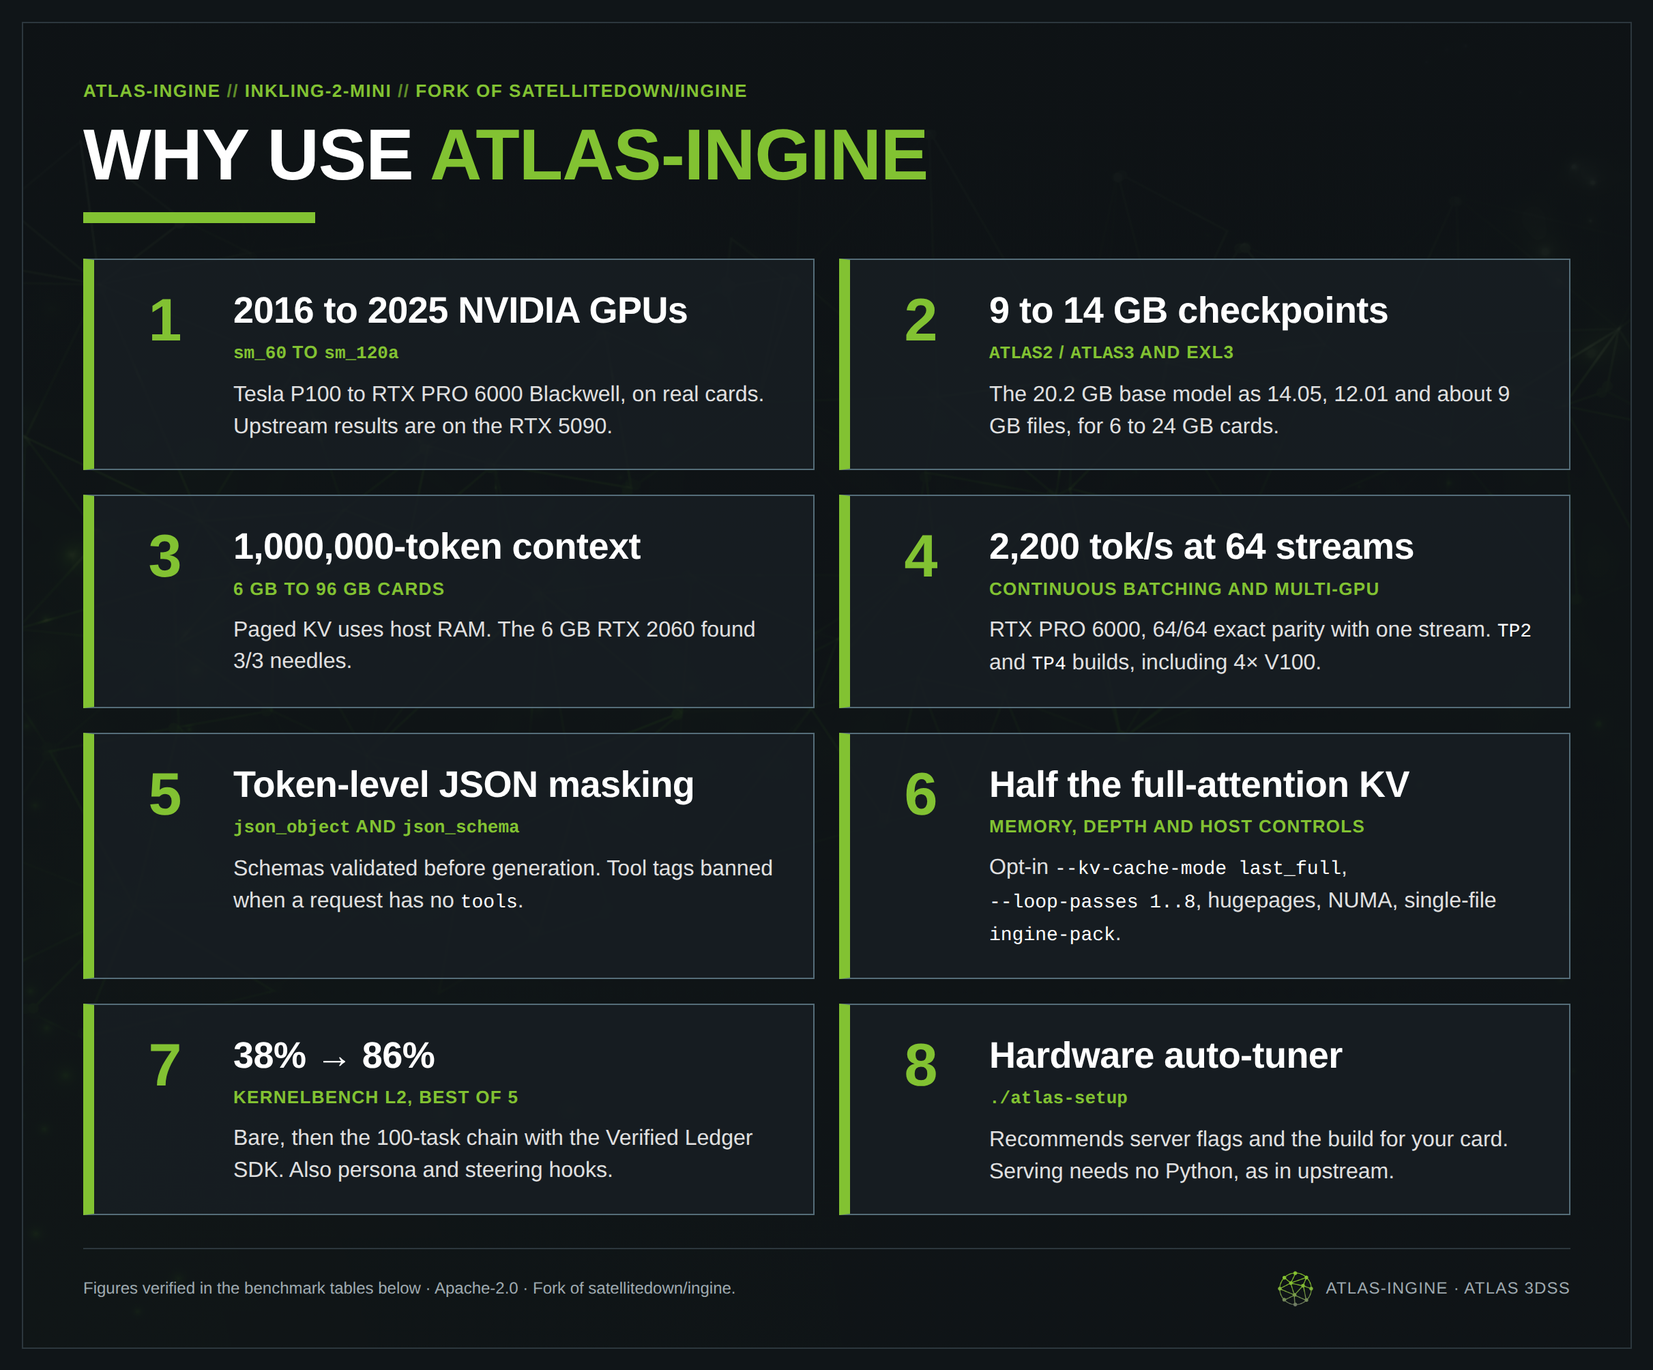
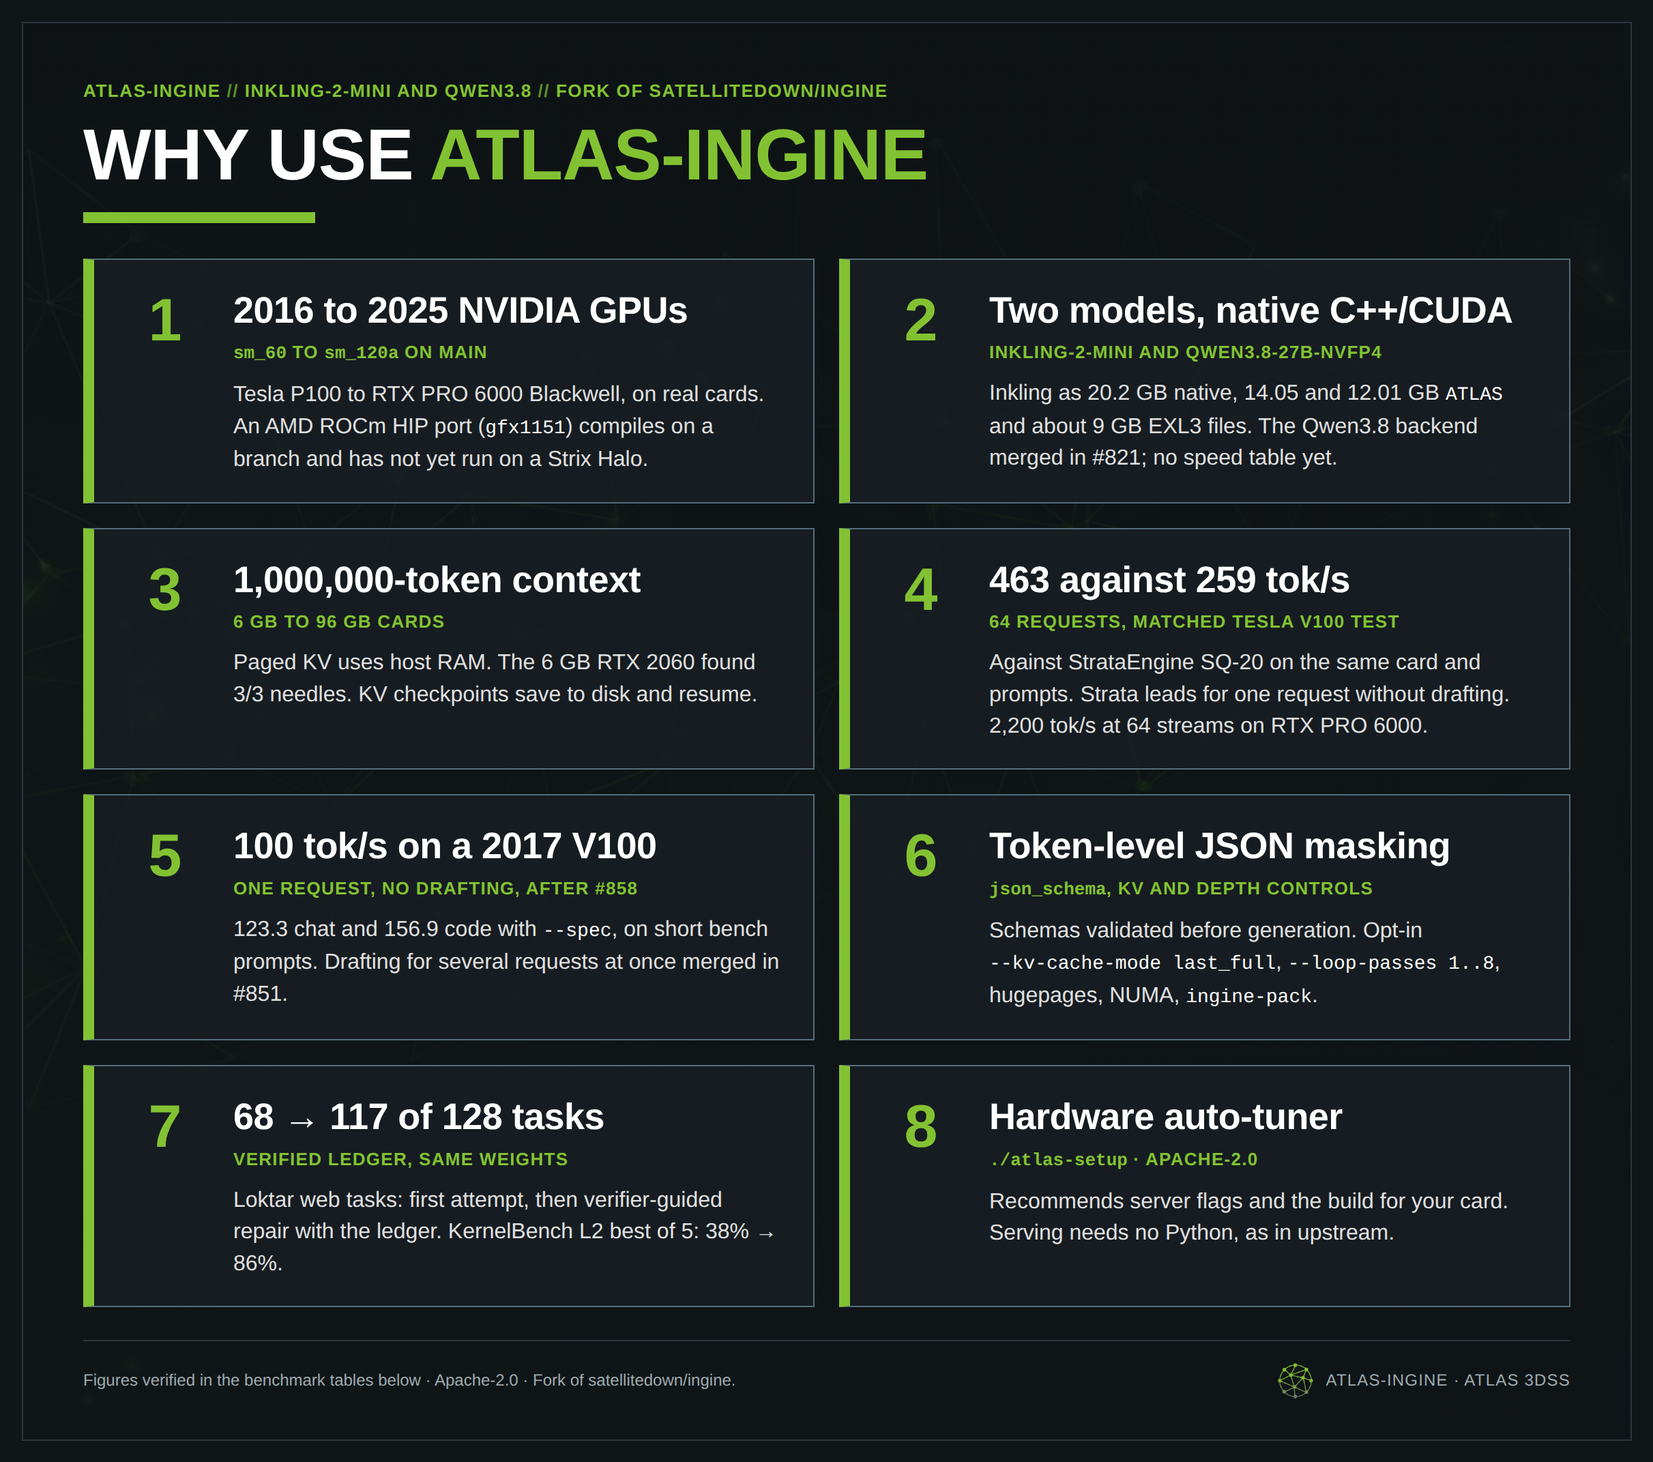
docs(readme): add matched V100 StrataEngine test, post-#858 V100 rows, and refreshed summary graphics

diff --git a/README.md b/README.md
@@ -1,19 +1,19 @@
 # atlas-ingine
 
 Multi-architecture Apache-2.0 CUDA inference engine for
-[thinkingmachines/Inkling-2-Mini](https://huggingface.co/thinkingmachines/Inkling-2-Mini), forked from
+[thinkingmachines/Inkling-2-Mini](https://huggingface.co/thinkingmachines/Inkling-2-Mini), with a Qwen3.8-27B-NVFP4 backend, forked from
 [satellitedown/ingine](https://github.com/satellitedown/inkling-2-mini-abliterated-ingine).
 
 ![Why use atlas-ingine: eight numbered points](docs/media/why_atlas_ingine.png)
 
-1. **Tesla P100 (2016) to RTX PRO 6000 (2025)**, `sm_60` to `sm_120a`: [measured performance](#measured-performance-16k-64k--262k-context-across-6-nvidia-generations)
-2. **9 to 14 GB checkpoints** (`ATLAS2`/`ATLAS3`, EXL3) for 6 to 24 GB cards: [checkpoints](#checkpoints-direct-hugging-face-links)
-3. **1,000,000-token context** on 6 GB to 96 GB cards: [1M table](#1000000-token-context-6-gb-to-96-gb-silicon)
-4. **Continuous batching and multi-GPU** (`TP2`/`TP4`): [fork additions](#what-this-fork-adds-over-upstream-satellitedowningine), [4× V100](#tesla-v100-sm_70-load-multi-gpu-and-other-engines-published-figures)
-5. **Token-level JSON and JSON Schema masking**, automatic tool-ban: [API](#openai-compatible-api)
-6. **KV, loop-depth, and host memory controls**, single-file weight packs: [fork additions](#what-this-fork-adds-over-upstream-satellitedowningine)
-7. **Verified Ledger SDK** and mech-interp hooks: [KernelBench](#kernelbench-level-2-benchmarks-100-tasks-continual-learning--verified-ledger), [ledger](#building-your-own-verified-ledger)
-8. **Hardware auto-tuner (`./atlas-setup`)** for upstream's standalone C++/CUDA server: [setup](#option-b-hardware-aware-auto-tuner--interactive-installer), [requirements](#requirements)
+1. **Tesla P100 (2016) to RTX PRO 6000 (2025)**, `sm_60` to `sm_120a`, on `main`: [measured performance](#measured-performance-16k-64k--262k-context-across-6-nvidia-generations). An AMD ROCm 7.2.4 HIP port for `gfx1151` is on branch [`feat/hip-full-port`](https://github.com/Atlas3DSS/atlas-ingine/tree/feat/hip-full-port) (`2a1fa4f`, 297 of 297 targets compile; not yet run on a Strix Halo).
+2. **Two models in native C++/CUDA**: Inkling-2-Mini as 9 to 20 GB files (`NVFP4+MXFP8`, `ATLAS2`/`ATLAS3`, EXL3) for 6 to 96 GB cards, and a Qwen3.8-27B-NVFP4 backend (`75577dd`; no speed table yet): [checkpoints](#checkpoints-direct-hugging-face-links), [Qwen3.8 plan](docs/QWEN38_BACKEND_PLAN.md)
+3. **1,000,000-token context** on 6 GB to 96 GB cards, with KV checkpoints that save to disk and resume: [1M table](#1000000-token-context-6-gb-to-96-gb-silicon)
+4. **Continuous batching and multi-GPU** (`TP2`/`TP4`): `463` against `259 tok/s` at 64 requests in a matched Tesla V100 test with StrataEngine SQ-20, which leads for one request without drafting: [matched test](#tesla-v100-sm_70-matched-test-load-multi-gpu-and-other-engines-published-figures), [fork additions](#what-this-fork-adds-over-upstream-satellitedowningine)
+5. **Tesla V100 single-request decode** of `100.4 tok/s` without drafting, `123.3` chat and `156.9` code with `--spec` (`56493c3`, short bench prompts), and drafting for several requests at once (`5f01889`): [measured performance](#measured-performance-16k-64k--262k-context-across-6-nvidia-generations)
+6. **Token-level JSON and JSON Schema masking**, automatic tool-ban, and KV, loop-depth, and host memory controls: [API](#openai-compatible-api), [fork additions](#what-this-fork-adds-over-upstream-satellitedowningine)
+7. **Verified Ledger SDK** and mech-interp hooks; with the same weights, 68 of 128 Loktar web tasks passed on the first attempt and 117 after verifier-guided repair with the ledger: [KernelBench and other evaluations](#kernelbench-level-2-benchmarks-100-tasks-continual-learning--verified-ledger), [ledger](#building-your-own-verified-ledger)
+8. **Hardware auto-tuner (`./atlas-setup`)** for upstream's standalone C++/CUDA server, Apache-2.0: [setup](#option-b-hardware-aware-auto-tuner--interactive-installer), [requirements](#requirements)
 
 ## Checkpoints (Direct Hugging Face Links)
 
@@ -34,7 +34,7 @@ Inkling-2-Mini has been benchmarked on real cards across **six NVIDIA GPU genera
 
 On the RTX 3090, all 24 BF16 dense output hashes matched between the pre-port build and the FP16 port. Blackwell and V100 runs passed `kernels_bitlock` (`48/48` on Blackwell) and full-model parity; P100 (`sm_60`) and Turing (`sm_75`) passed kernel tests and real-card speed benchmarks (full-model parity ctest was not run on the cloud P100/T4/RTX 6000/A100/H100 instances).
 
-Unless noted, 64K rows use `ingine-bench --max-ctx 65536 --dense-fp8 --kv-fp8 --spec --spec-threshold 0.8 --effort medium --tokens 512 --runs 2 --long-prompt 64000` on commit `901d86e` (runtime opt-in SMEM dispatch for `<=64 KiB` Turing and `<=48 KiB` Pascal). 16K rows use `--max-ctx 16384 --long-prompt 16000`. The V100 262K row uses `--effort low --tokens 64 --runs 1` with no long prompt; A100 and H100 262K rows use `--max-ctx 262144 --tokens 512 --runs 2`.
+Unless noted, 64K rows use `ingine-bench --max-ctx 65536 --dense-fp8 --kv-fp8 --spec --spec-threshold 0.8 --effort medium --tokens 512 --runs 2 --long-prompt 64000` on commit `901d86e` (runtime opt-in SMEM dispatch for `<=64 KiB` Turing and `<=48 KiB` Pascal). 16K rows use `--max-ctx 16384 --long-prompt 16000`. The V100 262K row uses `--effort low --tokens 64 --runs 1` with no long prompt; A100 and H100 262K rows use `--max-ctx 262144 --tokens 512 --runs 2`. The two V100 `main` rows after the Volta decode change (`66ef369` / `56493c3`) are `ingine-bench` on its short built-in prompts with one slot and three runs, not the 64K-prompt setting, so they are not comparable with the other rows.
 
 | GPU | Arch | Year | Checkpoint / Mode | VRAM | Chat decode | Code decode | Prefill |
 |---|---|---:|---|---:|---:|---:|---:|
@@ -43,6 +43,8 @@ Unless noted, 64K rows use `ingine-bench --max-ctx 65536 --dense-fp8 --kv-fp8 --
 | Tesla P100-PCIE 16 GB | `sm_60` (FP16) | 2016 | [Elastic `atlas-10g`](https://huggingface.co/Atlas3D/Inkling-2-Mini-atlas-10g-ingine) (64K, no-spec) | `13.17 GB` | `7.9 tok/s` | `7.5 tok/s` | `70.1 tok/s` (64K) |
 | Tesla V100-PCIE 32 GB | `sm_70` (FP16) | 2017 | [Native `NVFP4+MXFP8`](https://huggingface.co/thinkingmachines/Inkling-2-Mini) (64K, `901d86e`) | `21.82 GB` | `59.8 tok/s` | `72.2 tok/s` | `717.7 tok/s` (64K) |
 | Tesla V100-PCIE 32 GB | `sm_70` (FP16) | 2017 | [Native `NVFP4+MXFP8`](https://huggingface.co/thinkingmachines/Inkling-2-Mini) (64K, `feat/sm60-sm70-victory @ 2545a22`) | `21.82 GB` | **`81.0 tok/s`** | **`100.7 tok/s`** | **`2,052 tok/s`** (64K) |
+| Tesla V100-PCIE 32 GB | `sm_70` (FP16) | 2017 | [Native `NVFP4+MXFP8`](https://huggingface.co/thinkingmachines/Inkling-2-Mini) (short prompts, `--spec`, `main @ 56493c3`) | `21.57 GB` | `123.3 tok/s` | `156.9 tok/s` | — |
+| Tesla V100-PCIE 32 GB | `sm_70` (FP16) | 2017 | [Native `NVFP4+MXFP8`](https://huggingface.co/thinkingmachines/Inkling-2-Mini) (short prompts, no-spec, `66ef369`) | `20.41 GB` | `100.4 tok/s` | `100.4 tok/s` | — |
 | Tesla V100-PCIE 32 GB | `sm_70` (FP16) | 2017 | [Native `NVFP4+MXFP8`](https://huggingface.co/thinkingmachines/Inkling-2-Mini) (262K) | `25.04 GB` | `46.0 tok/s` | `54.9 tok/s` | — |
 | Tesla T4 16 GB | `sm_75` (FP16) | 2018 | [Elastic `atlas-10g`](https://huggingface.co/Atlas3D/Inkling-2-Mini-atlas-10g-ingine) (16K, `--spec`) | `13.33 GB` | `23.5 tok/s` | `25.2 tok/s` | `303 tok/s` (16K) |
 | Tesla T4 16 GB | `sm_75` (FP16) | 2018 | [Elastic `atlas-10g`](https://huggingface.co/Atlas3D/Inkling-2-Mini-atlas-10g-ingine) (64K, `--spec`) | `14.34 GB` | `22.1 tok/s` | `23.9 tok/s` | `237 tok/s` (64K) |
@@ -70,11 +72,22 @@ External baseline reference points (different hardware, quants, or settings — 
 - **Project Maya** (AMD ROCm/HIP & multi-GPU Inkling-2-Mini serving) and **`llama.cpp` / `Atlas3DSS/atlas-engine`** (GGUF serving; see [Atlas3DSS/atlas-engine](https://github.com/Atlas3DSS/atlas-engine)).
 - **Like-for-like 6-engine RTX 3090 24 GB bare multi-turn Blender authoring showdown** (identical prompts, 6 sequences / 24 shots, no Verified Ledger, Blender 4.5.14 LTS verifier): `atlas-ingine` Native **`220.15 tok/s`** (`21.23 GiB`, `25.0%` bare pass / `43.93%` compliance — **`1.86×`** Project Maya `118.26 tok/s`, **`2.11×`** `llama.cpp v7+DSpark` `104.16 tok/s`, **`3.48×`** `Kintsugi-12G` `63.22 tok/s`), while `atlas-12g` ran **`163.73 tok/s`** (**`2.59×`** `Kintsugi-12G` with vision included; upstream `satellitedown/ingine` fails startup on `sm_86`). Adding Verified Ledger lifts `atlas-ingine` Native from `25%` bare to `100%` (`28/28` shots).
 
-### Tesla V100 (`sm_70`): load, multi-GPU, and other engines' published figures
+### Tesla V100 (`sm_70`): matched test, load, multi-GPU, and other engines' published figures
 
-![Inkling-2-Mini on the Tesla V100: atlas-ingine beside NInfer, StrataEngine, Lapilli, llama.cpp, DGX Spark and a P100 reference](docs/media/v100_inkling2mini_all_engines.png)
+![Inkling-2-Mini on the Tesla V100: a matched test against StrataEngine, and atlas-ingine beside published figures from NInfer, StrataEngine, Lapilli, llama.cpp, DGX Spark and a P100 reference](docs/media/v100_inkling2mini_all_engines.png)
 
 Measured 2026-11-25 on Tesla V100-PCIE-32GB cards with [knapcio/speedbench](https://github.com/knapcio/speedbench) at `e95a638` (native `NVFP4+MXFP8`, `--dense-fp8 --kv-fp8`, built-in DSpark for single-stream speedbench and cold prefill, no drafting for the concurrent prose runs). These runs used a pre-merge build of the Volta prefill/batch kernels and have not been repeated on current `main`.
+
+**Matched test against StrataEngine** (2026-11-26; the same Tesla V100-PCIE-32GB, speedbench-v1 prose prompts over HTTP, 256 output tokens, thinking off, two rounds, 0 failed requests in every arm). StrataEngine is release `v0.2.22` (engine `0.1.69`) with its SQ-20 pack from the [card at `04996a1e`](https://huggingface.co/strata-engine/Inkling-2-Mini-Strata/blob/04996a1e2c45009b6a04f2af126cb6bdb2ba3587/README.md), `--parallel 64 --kv fp8`. atlas-ingine is the same pre-merge build as above (native `NVFP4+MXFP8`), not `main` after the Volta decode change.
+
+| Arm | `c=1` | `c=8` | `c=16` | `c=64` | First token at `c=64`, median / p95 | Cold 10,131-token prompt |
+|---|---:|---:|---:|---:|---:|---:|
+| atlas-ingine, no drafting, `--max-batch 64` | `44.65` | `142.36` | `204.18` | `463.37` | `6.73 s` / `6.77 s` | — |
+| atlas-ingine, `--spec`, one slot | `59.17` | — | — | — | — | `2,648 tok/s` (`3.83 s`) |
+| StrataEngine SQ-20, `--draft off` | `55.62` | `138.14` | `170.34` | `258.18` | `1.30 s` / `16.85 s` | `1,259 tok/s` (`8.05 s`) |
+| StrataEngine SQ-20, drafting on | `45.09` | `138.93` | `169.34` | `258.59` | `1.16 s` / `16.72 s` | `651 tok/s` (`15.57 s`) |
+
+Throughput is aggregate `tok/s`. atlas-ingine is ahead at 16 and 64 requests (`1.20×` and `1.79×`) and on the cold prompt (`2.1×` with Strata's drafting off); the two are level at 8. StrataEngine is ahead for one request without drafting (`55.62` against `44.65`) and starts most replies sooner at 64 (median first token `1.2–1.3 s` against `6.7 s`), while its slowest requests wait longer (p95 `16.7 s` against `6.8 s`). The cold-prompt figure is one request per arm, timed end to end including 32 output tokens. StrataEngine's SQ-10 pack with drafting failed 3 of 3 starts on this card (`CUDA error 9`), so it has no row.
 
 | Setup | speedbench full, `c=1` (geomean) | Prose, 16 concurrent | Highest load measured (prose, 0 failed) | Cold prefill, 8K |
 |---|---:|---:|---:|---:|
@@ -86,8 +99,8 @@ On one card, 64 concurrent high-effort requests of 4,096 tokens exceeded the KV 
 
 Published V100 and P100 figures from other projects, on their hardware, quants, and prompts (not re-measured here):
 
-- **[ashalliants/ninfer-3090](https://github.com/ashalliants/ninfer-3090)** ([`docs/tesla-v100.md` at `8ea67ce`](https://github.com/ashalliants/ninfer-3090/blob/8ea67ce616c481592d3016291043ed5143c9065b/docs/tesla-v100.md); Tesla V100 32 GB at 200 W, byte-exact repack of Unsloth `UD-Q8_K_XL`, INT8 KV): `78.0 tok/s` plain and `94.3 tok/s` with DSpark (12-chat average, 262,144 max context with vision), `198.2 tok/s` aggregate at 8 concurrent (the highest it publishes), prefill `2,727 tok/s` at 8K with `--prefill-chunk 8192` at 131,072 max context (`2,170` at its default chunk). **NInfer is ahead for 1–8 users:** ours are `81.0 tok/s` chat with `--spec`, `44.7 tok/s` plain at `c=1`, and `142.2 tok/s` at `c=8`. atlas-ingine's 8K prefill is `2,900 tok/s` against `2,727`; NInfer publishes no four-card or 1,048,576-token figures.
-- **[StrataEngine Hugging Face card at `04996a1e`](https://huggingface.co/strata-engine/Inkling-2-Mini-Strata/blob/04996a1e2c45009b6a04f2af126cb6bdb2ba3587/README.md)** (Tesla V100 32 GB, its SQ-20 and SQ-10 packs, thinking off, draft decoding on for single requests; prompts, output length, and context not stated): `70.5 tok/s` for one request, `2,287 tok/s` prefill on SQ-20, and **`990.1 tok/s` (SQ-20) and `676.0 tok/s` (SQ-10) across 64 simultaneous requests**. Our `463.4 tok/s` at `c=64` is on a different workload (speedbench prose, native `NVFP4`, no drafting), so the two are not like for like; Strata's published 64-request figure is the higher one.
+- **[ashalliants/ninfer-3090](https://github.com/ashalliants/ninfer-3090)** ([`docs/tesla-v100.md` at `8ea67ce`](https://github.com/ashalliants/ninfer-3090/blob/8ea67ce616c481592d3016291043ed5143c9065b/docs/tesla-v100.md); Tesla V100 32 GB at 200 W, byte-exact repack of Unsloth `UD-Q8_K_XL`, INT8 KV): `78.0 tok/s` plain and `94.3 tok/s` with DSpark (12-chat average, 262,144 max context with vision), `198.2 tok/s` aggregate at 8 concurrent (the highest it publishes), prefill `2,727 tok/s` at 8K with `--prefill-chunk 8192` at 131,072 max context (`2,170` at its default chunk). **NInfer's published figures are higher at 8 users:** ours is `142.2 tok/s` at `c=8` on the pre-merge build. For one request, `main` after the Volta decode change measures `100.4 tok/s` plain and `123.3 tok/s` chat with `--spec` on `ingine-bench`'s short prompts (the earlier build: `81.0` chat at 64K, `44.7` plain over HTTP); prompts and context differ from NInfer's, so this is not a matched result. atlas-ingine's 8K prefill is `2,900 tok/s` against `2,727`; NInfer publishes no four-card or 1,048,576-token figures.
+- **[StrataEngine Hugging Face card at `04996a1e`](https://huggingface.co/strata-engine/Inkling-2-Mini-Strata/blob/04996a1e2c45009b6a04f2af126cb6bdb2ba3587/README.md)** (Tesla V100 32 GB, its SQ-20 and SQ-10 packs, thinking off, draft decoding on for single requests; prompts, output length, and context not stated): `70.5 tok/s` for one request, `2,287 tok/s` prefill on SQ-20, and **`990.1 tok/s` (SQ-20) and `676.0 tok/s` (SQ-10) across 64 simultaneous requests**. Our `463.4 tok/s` at `c=64` is on a different workload (speedbench prose, native `NVFP4`, no drafting). On that workload the same SQ-20 pack measured `258.6 tok/s` at `c=64` in the matched test above; we did not reproduce its published workload.
 - **[Lapilli Inkling port](https://github.com/chris83-dev/lapilli-v100/blob/f9b7dd093a9ff018bc68f177f81a1d27d3ffec91/docs/community/inkling2-mini.md)** (`f9b7dd0`; V100 PCIe 32 GB, official NVFP4 experts, no drafting): `69 tok/s` decode, `850 tok/s` on a short prompt.
 - **[`llama.cpp`, realugbun `inkling2-speed` fork README](https://github.com/realugbun/llama.cpp/blob/2eb2530ec4da/README.md)** (`2eb2530`; V100 32 GB, Unsloth `UD-Q4_K_XL`): `50.7 tok/s` and `1,185 tok/s` (`pp512`) on the fork, `32.0` and `725` on mainline as measured there.
 - **[knapcio DGX Spark recipe](https://github.com/knapcio/Inkling-2-Mini-4x-DGX-Spark-TP4)** (`c0f5f1c`; GB10 `sm_121`, SGLang, DFlash2 draft model, BF16 KV; same speedbench): speedbench full `40.6` (1 Spark, stock), `73.34` (1 Spark, tuned), `152.97` (4 Sparks, tuned); prose at 16 concurrent `186.2` / `288.3` / `572.6 tok/s`. One V100 matches a tuned Spark at `c=1`; four tuned Sparks are ahead of four V100s at equal load.
@@ -130,6 +143,12 @@ All 100 Stanford KernelBench Level-2 tasks (`423217d9`, fixed deterministic perm
 
 - **300-Agent Parallel Swarm over Shared Verified Ledger (`4× RTX 5090`, `feat/continuous-batching @ fa4ecb9`, 3 archetypes × 100 tasks):** Running 300 concurrent agents (`minimal_launch`, `warp_vectorized`, `tile_fusion`) over a single shared SQLite Verified Ledger across 4 batched `ingine-serve` workers (`568` committed turns = `300` R1 + `268` R2 before the 3.5 h cap, `1.39M` completion tokens) solved **`45/100`** (`44%` `fast_1`, `2.24×` eager / `1.66×` compile) in Round 1 alone and **`55/100`** (`54%` `fast_1`, `25%` `fast_2`, `47%` `fast_1_compile`, **`2.36×` eager / `1.65×` compile geomean**, peak `14.28×`, **`0 / 159` precomputation flags**) cumulatively through Round 2 — producing **`159` verified winners**, **`62` verified failure-to-winner repairs** (`34` cross-agent + `28` same-agent), and speeding up `20` Round-1 winners in Round 2.
 - **Exploratory A100 DEV Paired Repair-Transfer (`#805`, NVIDIA A100-SXM4-40GB, `TORCH_CUDA_ARCH_LIST=8.0`, 0 infra errors):** Across 89 disjoint Level-2 targets (`58` Attempt-1 passes, `31` eligible failures forked symmetrically under `grade1` + independent `regrade`), Treatment recovered **`21 / 31`** (`67.74%`, Wilson 95% CI `[50.14%, 81.43%]`) vs Control **`19 / 31`** (`61.29%`, `[43.82%, 76.27%]`), with `4` Treatment-only wins vs `2` Control-only wins (exact two-sided McNemar `p = 0.6875`, exploratory; `14/17` vs `12/17` on retrieval hits; all `14` no-hit pairs produced identical code including `4` empty pairs).
+
+Other Verified Ledger evaluations with unchanged weights:
+
+- **Loktar web tasks** (128 canvas and front-end tasks, deterministic browser verifier; [showcase](https://monkeyalignment.com/inkling/self-repair/#loktar-testing)): `68/128` passed on the first attempt (mean score `56.91`) and `117/128` after verifier-guided repair with the Verified Ledger (mean `84.68`, 370 iterations in total). The first-attempt arm has no retries, so the difference includes the retries as well as the ledger.
+- **BenchFlow Robo Use** (local fleet, in progress; rollup of 2026-11-26 10:46 UTC): over 69 matched task/seed/host pairs, stock passed `32` (`46.4%`) and Verified Ledger `37` (`53.6%`); 11 ledger-only wins, 6 stock-only wins, 52 ties. The difference is not statistically significant at this size.
+- **BFCL v3 multi-turn** (unmodified `gorilla@6ea57973`, 800 of 800 entries, `--spec`, 2× Tesla V100): stock Inkling-2-Mini scores `42.75%` (`342/800`; base `53.5%`, missing function `30.5%`, missing parameter `43.0%`, long context `44.0%`). The Verified Ledger arm has not finished.
 
 ## Autonomous Multimodal Video Examples
 
@@ -291,6 +310,7 @@ Additional verified architecture, branch, and live-serving details:
 ## What this fork adds over upstream `satellitedown/ingine`
 
 1. **10-year NVIDIA multi-architecture support (`sm_60`/`61`, `sm_70`, `sm_75`, `sm_80`/`86`, `sm_89`, `sm_90`, `sm_120a`):**
+   - Volta (`sm_70`) single-request decode kernels (NVFP4 `dp4a` MoE, zero-SMEM FP8 GEMV, fused epilogues) and, in the batch engine, speculative drafting for more than one request at a time.
    - Native **Ampere (`sm_80`/`86`)**, **Ada (`sm_89`)**, **Hopper (`sm_90`)**, and **Blackwell (`sm_120a`)** BF16 codepaths on CUDA 12.8+ / CUDA 13.x.
    - Compile-time **FP16 activation mode (`-DINGINE_ACT_FP16=ON`)** for **Volta (`sm_70`)**, **Turing (`sm_75`)**, and **Pascal (`sm_60`/`61`)** on CUDA 12.9 uses FP16 Tensor Core instructions for `sm_70`/`75` and FP32 SIMT for `sm_60`/`61`.
    - Software fallbacks for Hopper/Blackwell-only primitives (PDL, DSMEM/cluster reductions, hardware FP4/FP8 conversions), branchless FP8/E2M1/ATLAS2/ATLAS3 unpackers, and a CTA-wide synchronization fix in `native/src/kernels/head/head.cu` (`finish_part`) preventing multi-block top-p publication races under independent thread scheduling.
